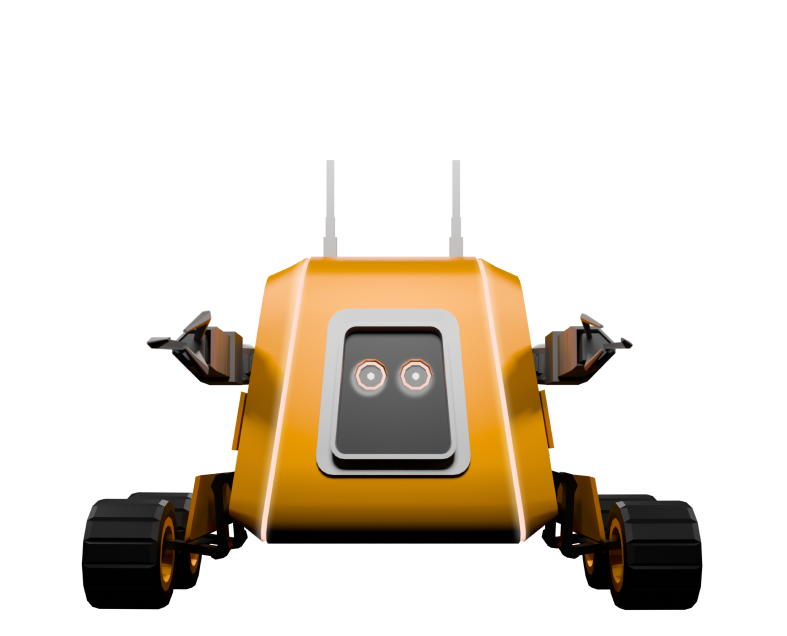
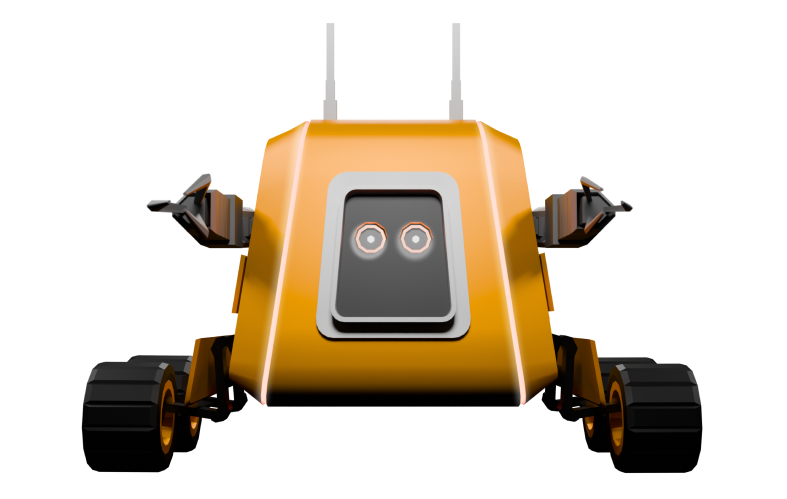
minor changes

Changed region(s): [[0.0915, 0.0301, 0.9149, 0.9619], [0.8844, 0.9018, 0.9149, 0.9319]]

diff --git a/style.css b/style.css
@@ -6,7 +6,6 @@ html,body{
 
 #herorobo{
   position: absolute;
-  top: 180px;
 }
 
 h1{
@@ -231,7 +230,7 @@ h1{
 }
 
 #herorobo{
-  top: 220px;
+  top: 420px;
   width:450;
   height:450;
 }
@@ -385,8 +384,8 @@ h1{
     font-size: small;
   }
   #herorobo{
-    top: 1000px;
-    width:100;
+    top: 400px;
+    width: 500px;
     height:100;
   }
   #heroicon{
@@ -414,7 +413,7 @@ h1{
     font-size: small;
   }
   #herorobo{
-    top: 230px;
+    top: 380px;
     height: 300px;
     width: 300px;
   }
@@ -424,9 +423,9 @@ h1{
 
 @media screen and (min-width: 820px) and (max-width: 1180px) {
   #herorobo {
-    top: 180px; 
+    top: 380px; 
     height: 400px;
-    width: 400px;
+    width: 500px;
   }
 }
 
@@ -444,7 +443,7 @@ h1{
     font-size: x-small;
   }
   #herorobo {
-    top: 280px;
+    top: 380px;
    
   }
 }
@@ -454,9 +453,9 @@ h1{
 
 @media screen and (min-width: 768px) and (max-width: 1024px) and (orientation: portrait) {
   #herorobo {
-    top: 270px; /* Adjust as needed */
+    top: 370px; /* Adjust as needed */
     height: 400px;
-    width: 400px;
+    width: 500px;
   }
 }
 
@@ -467,8 +466,12 @@ h1{
   }
 
   #herorobo{
-    top: 250px !important;
+    top: 380px !important;
     width:30;
     height:30;
   }
+}
+#herorobo
+{
+  margin: 0;
 }
